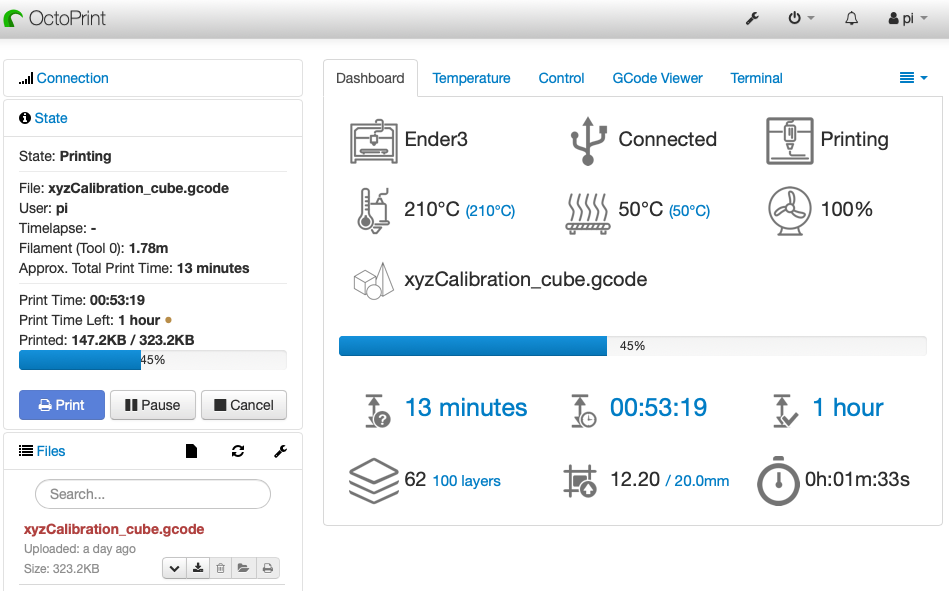
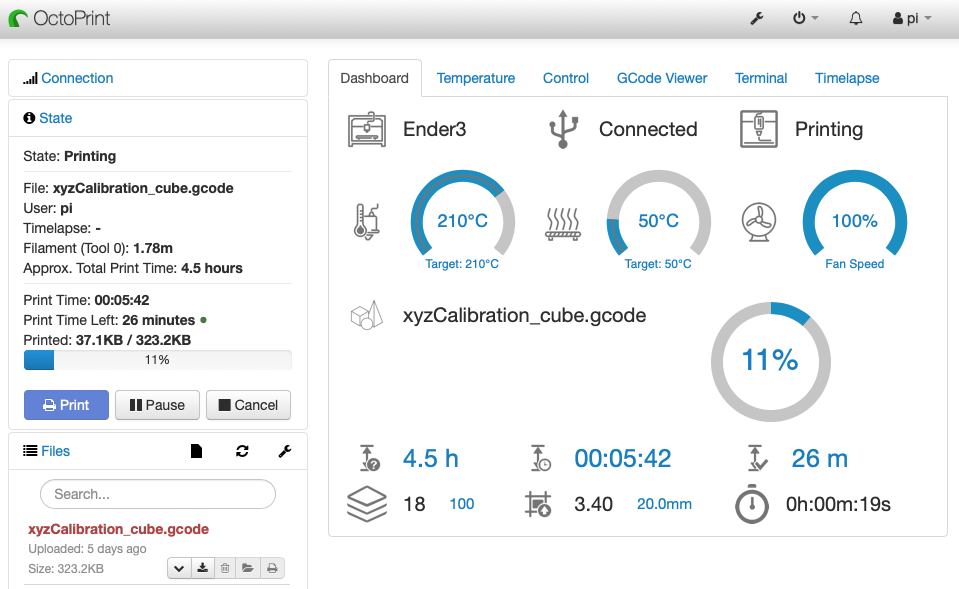
Updated README and added new screenshot

diff --git a/README.md b/README.md
@@ -6,7 +6,6 @@ Note! This is a work in progress and may be buggy and/or incomplete
 
 ![Screenshot](https://github.com/StefanCohen/OctoPrint-Dashboard/blob/master/screenshot.png)
 
-Nice to haves:
 ## Features
 
 * Shows stats for:  
@@ -18,19 +17,15 @@ Nice to haves:
     * Current height, Total height
     * Average layer time
 * Uses Estimates from [PrintTimeGenius](https://plugins.octoprint.org/plugins/PrintTimeGenius/) when installed
-* Theme friendly
+* Uses GCode analysis provided by [DisplayLayerProgress](https://plugins.octoprint.org/plugins/DisplayLayerProgress/) to get more accurate layer and fan data 
+* Theme friendly:
 
-TODOs:
-* Support for multiple hotends
-* Localization support
-* Chamber temp
-* SoC temp
-* Room temp?
-* Minimalistic temp graphs for hotend and bed.
+![Screenshot](https://github.com/StefanCohen/OctoPrint-Dashboard/blob/master/screenshot-theme.png)
+
 
 ## Dependencies
 
-This plugin requires [DisplayLayerProgress](https://plugins.octoprint.org/plugins/DisplayLayerProgress/) to be installed in order to work. DisplayLayerProgress provides GCode analysis for the Dashboard.
+This plugin depends on [DisplayLayerProgress](https://plugins.octoprint.org/plugins/DisplayLayerProgress/) to be installed in order to work fully. DisplayLayerProgress provides GCode analysis for the Dashboard.
 
 ## Credits
 
